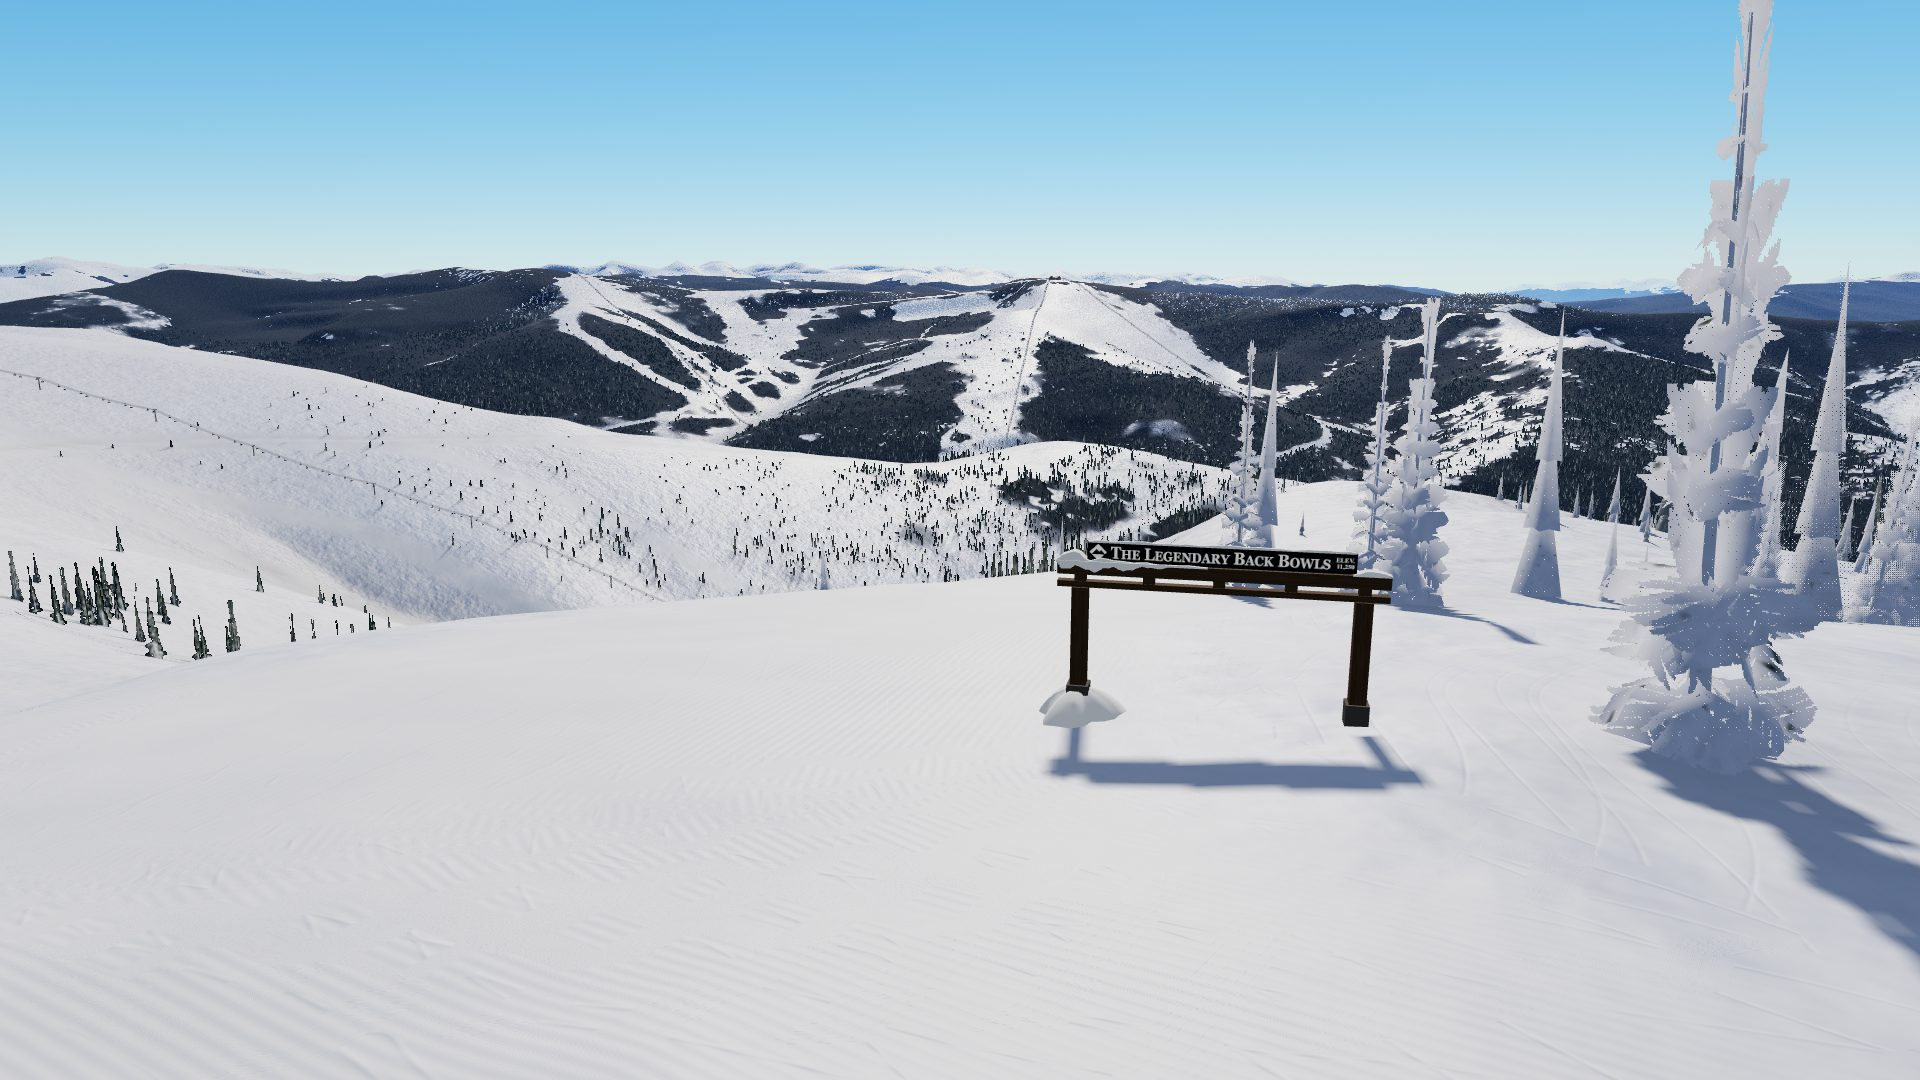
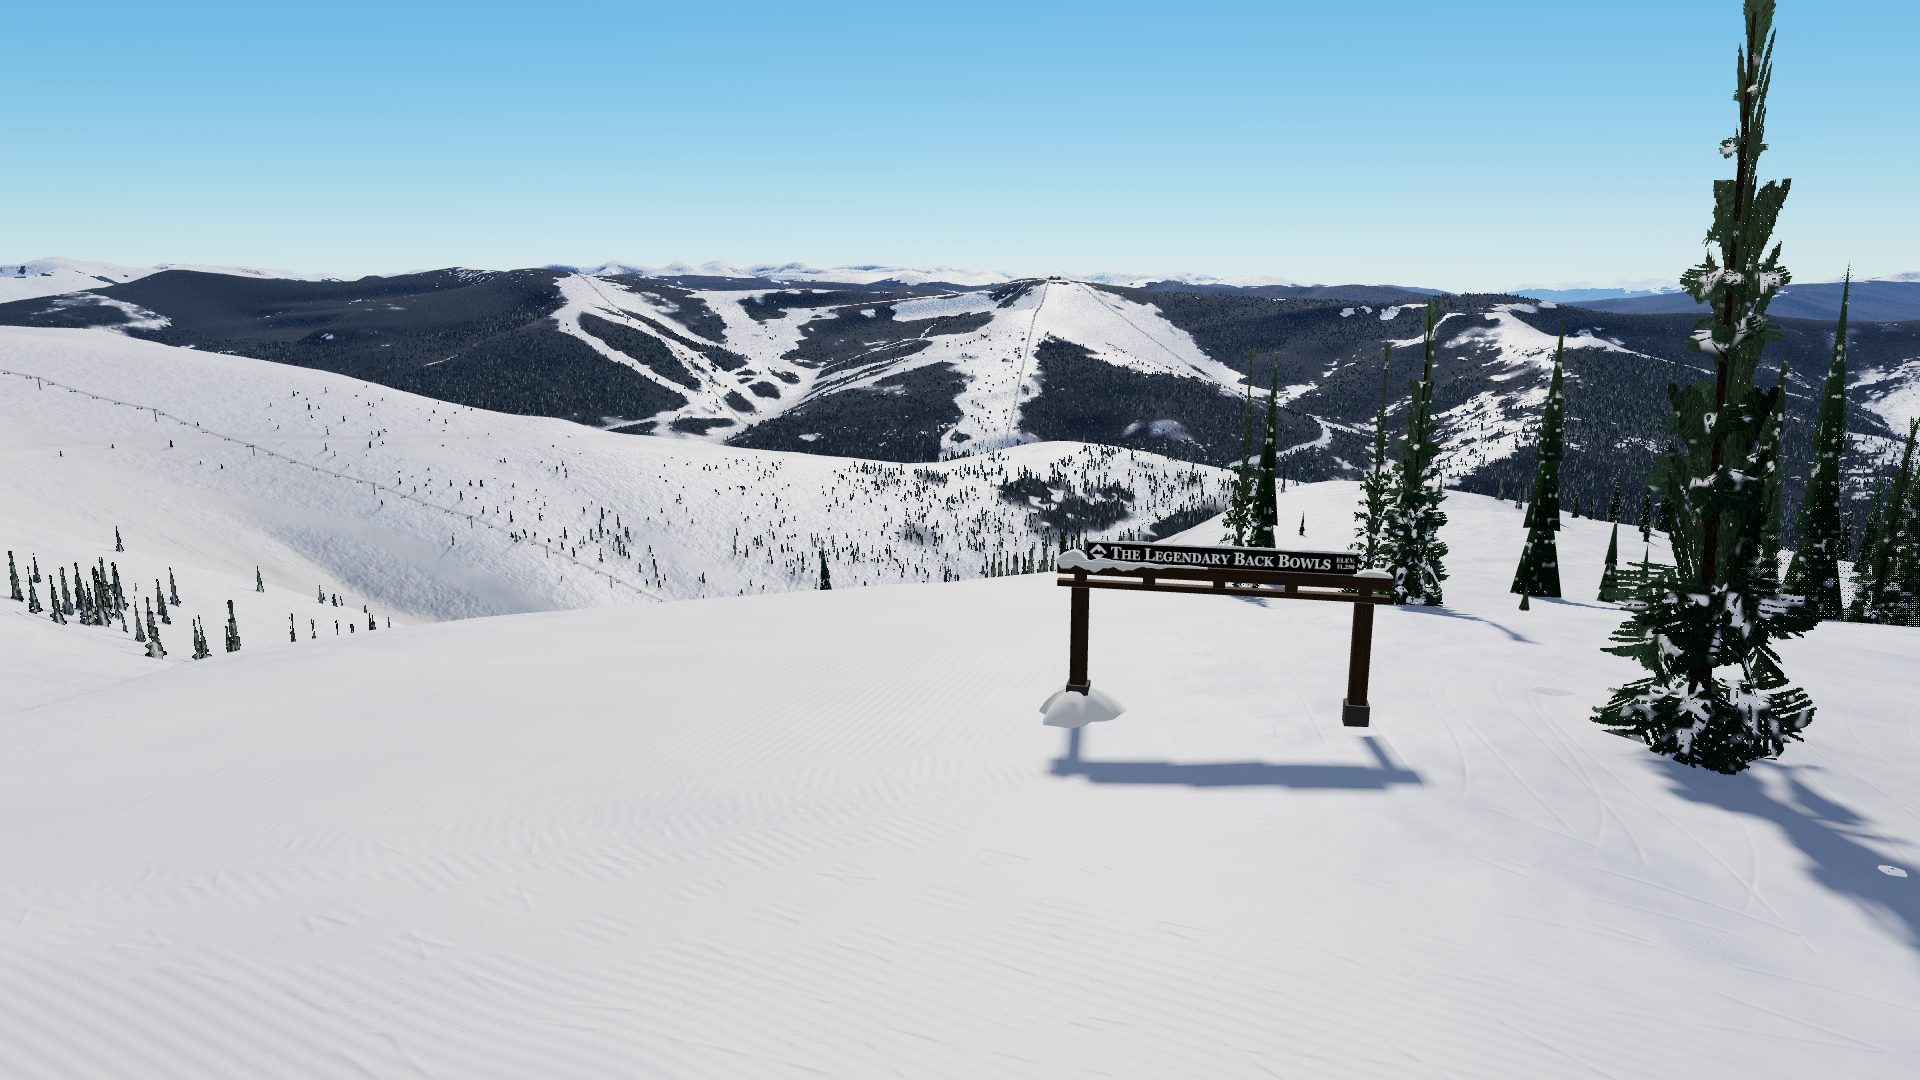
FEAT-070: snow ghosts from treeline (3,450 to 3,560 m), not 3,300 m, so Hornsilver's forest is flocked like the Feb 2014 photo; menu stills re-rendered (--compare: Vail 2.74, Breckenridge 1.66)

diff --git a/game/src/world/trees/snow.ts b/game/src/world/trees/snow.ts
@@ -6,7 +6,7 @@ import { SNOW_ALBEDO, SNOW_SHADE_TINT } from '../snowLook';
  *
  * Load. `setTreeSnow` sets one load for the day (0 bare .. 1 just after a storm, from the new snow,
  * the snow conditions and the month: `treeSnowState`). Each tree varies it by +-15% and a tree above
- * the snow-ghost line (about 3,350 m) in deep winter goes to a full load with rime (`ghost`).
+ * the snow-ghost band (treeline, 3,450 to 3,560 m) in deep winter goes to a full load with rime (`ghost`).
  *
  * Where it sits (LOD0 and LOD1, per fragment): on the upper side of what you see, from the surface's
  * own facing (screen derivatives, so the top of a card collects snow and its underside stays green),
@@ -36,8 +36,9 @@ export interface TreeSnowState {
 
 export const treeSnowUniforms = {
   uTreeSnow: { value: new THREE.Vector3(0.4, 0, 0) }, // load, melt, ghost
-  /** the snow-ghost band (world y, m): none below x, full from y */
-  uGhostZ: { value: new THREE.Vector2(3300, 3420) },
+  /** the snow-ghost band (world y, m): none below x, full from y. Colorado treeline (FEAT-070): below it the
+   * forest is flocked, not rimed (Hornsilver at 3,380 m in the Feb 2014 photo), krummholz and the top stands are ghosts */
+  uGhostZ: { value: new THREE.Vector2(3450, 3560) },
   /** direction toward the sun (world) and its colour x intensity: the translucency and the far LODs */
   uTreeSunDir: { value: new THREE.Vector3(0.4, 0.8, 0.4).normalize() },
   uTreeSunColor: { value: new THREE.Color(3, 3, 3) },
